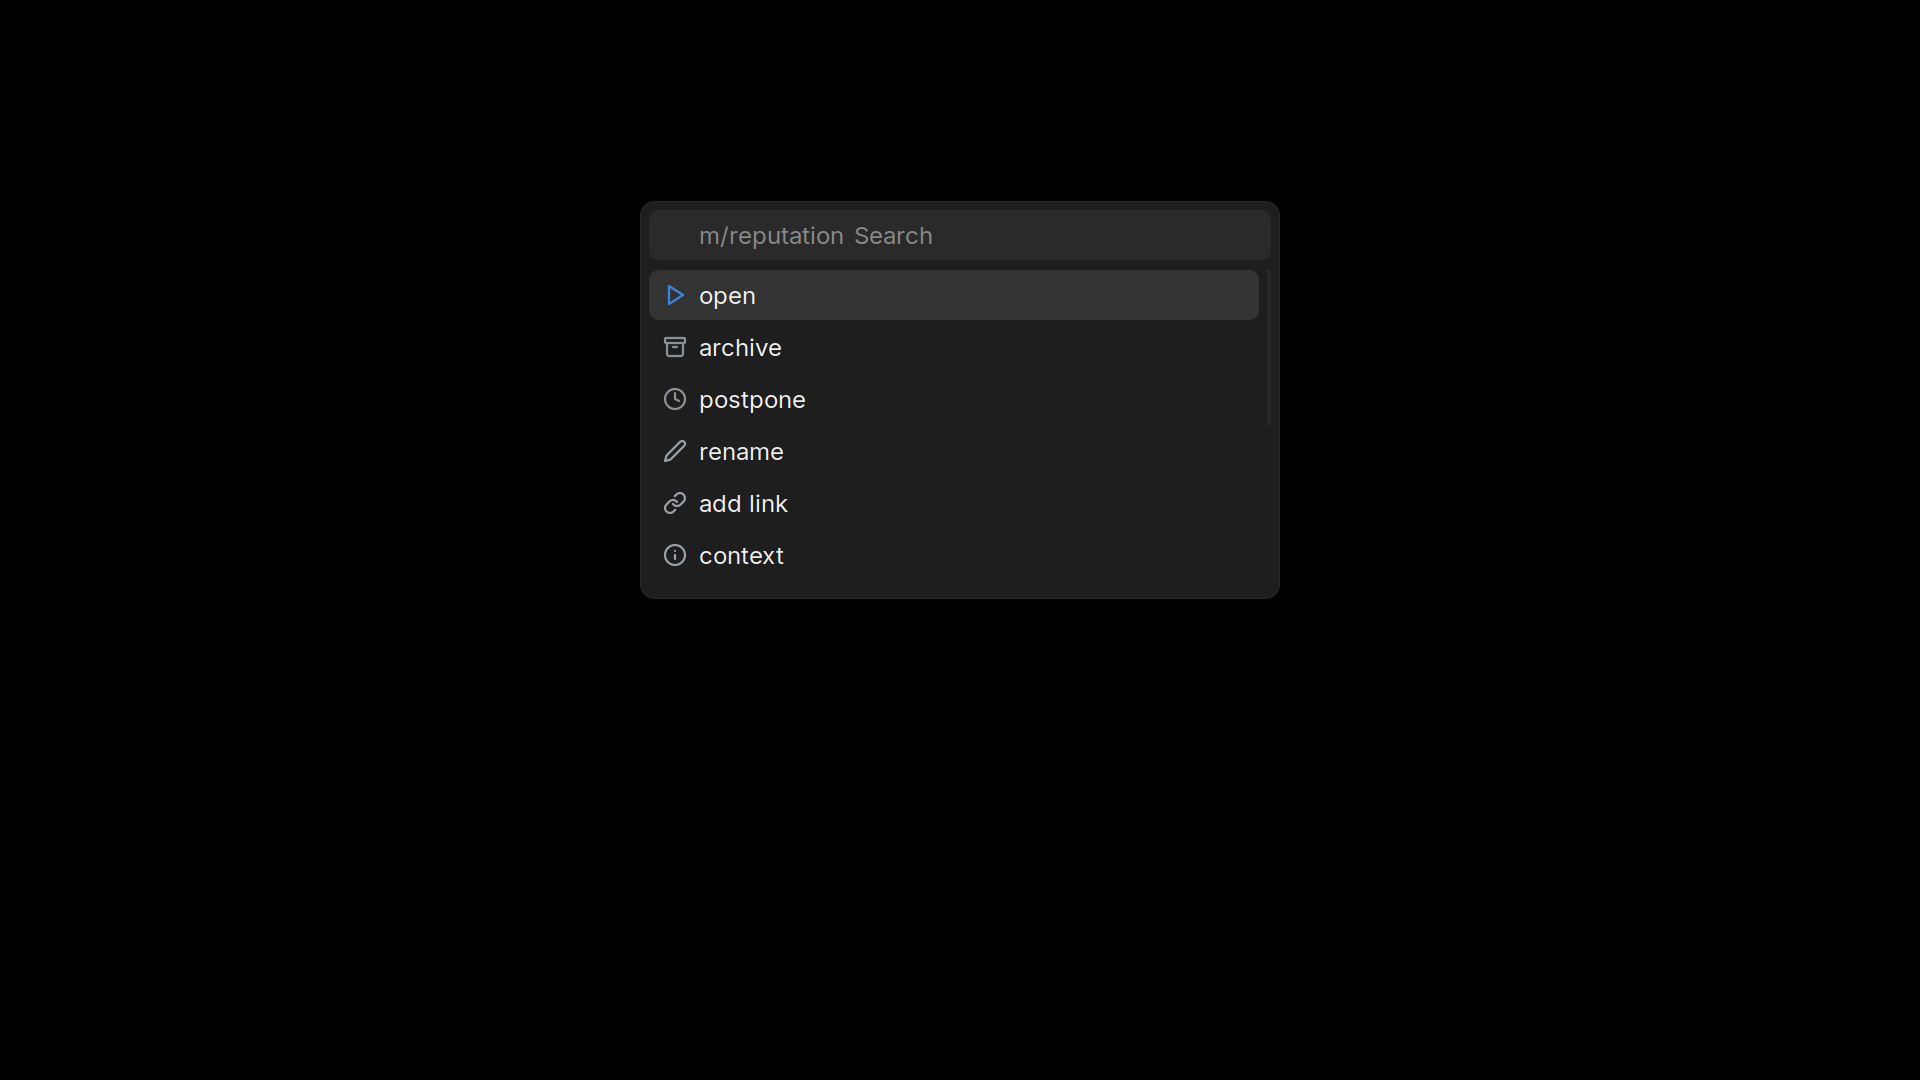
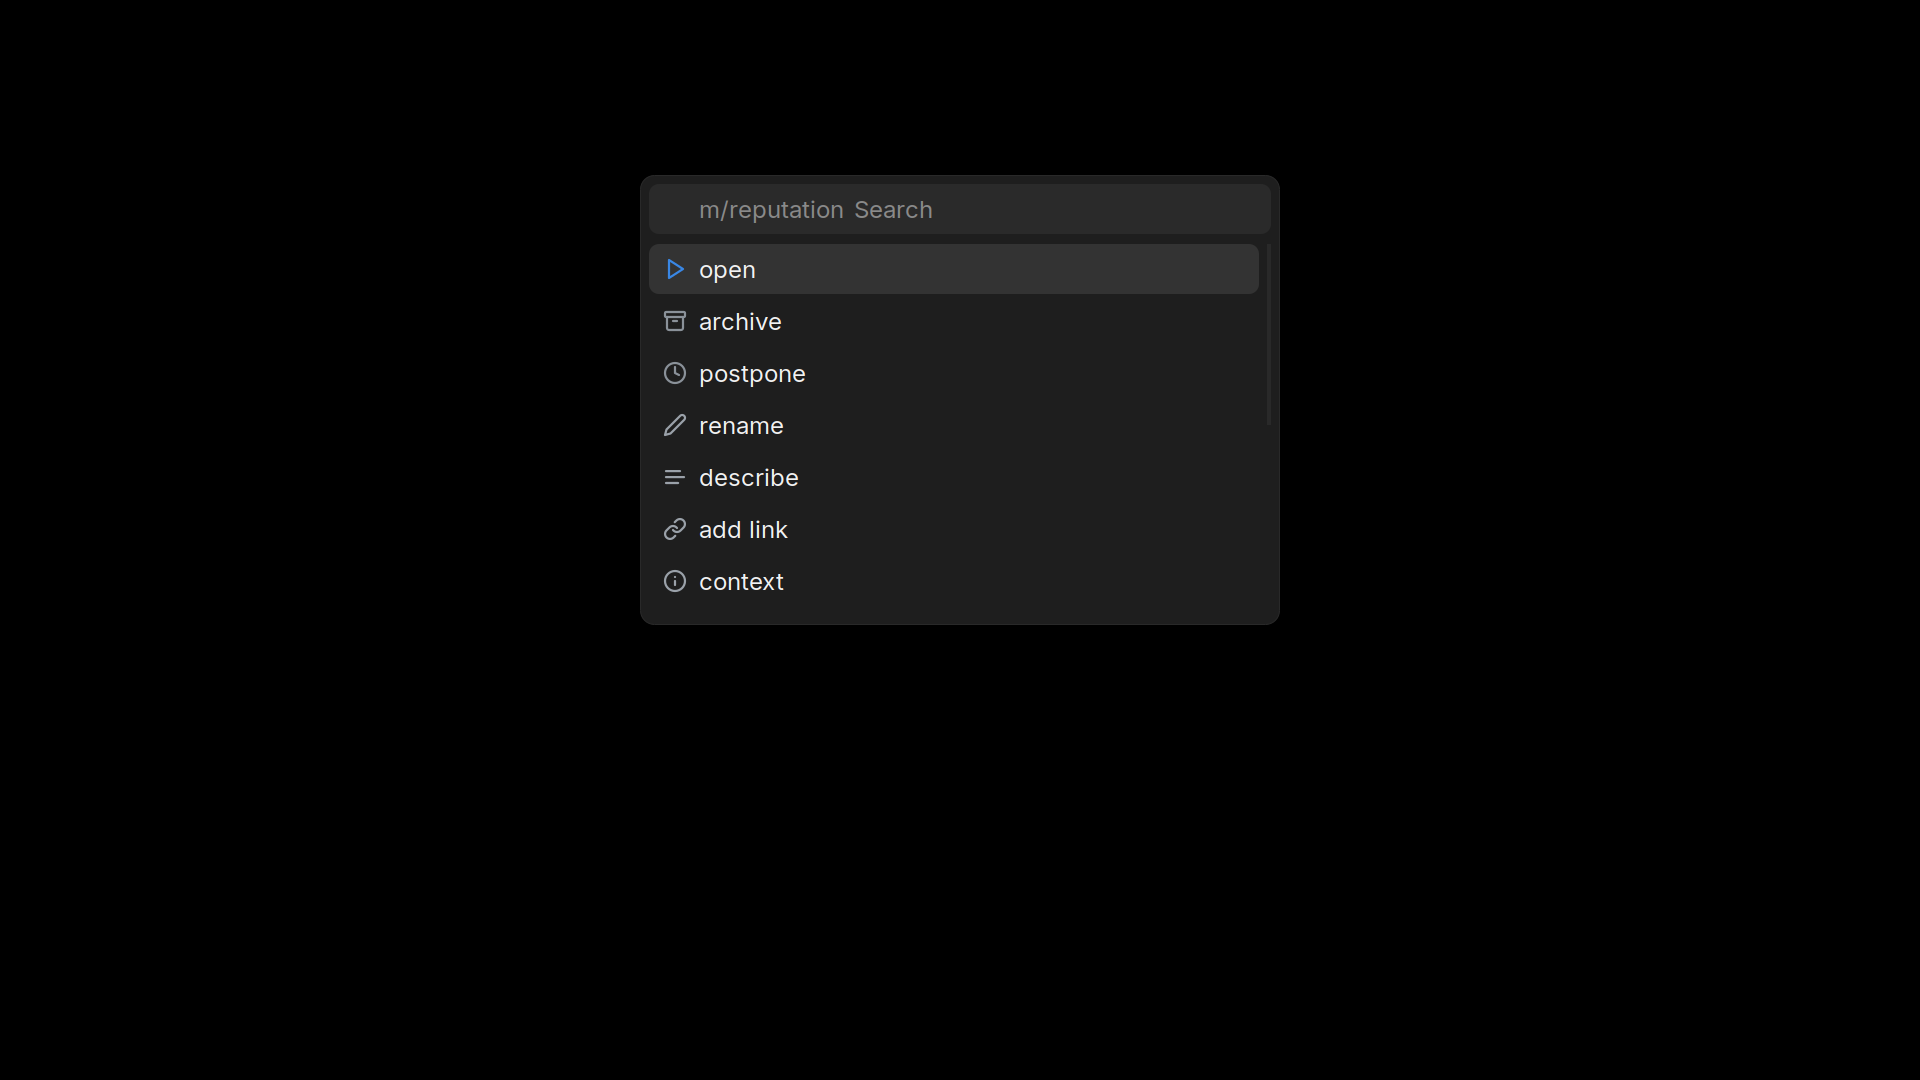
p-launcher: project description as a decorative subtitle, describe verb

Changed region(s): [[0.3125, 0.1528, 0.6875, 0.5806]]

diff --git a/p-launcher/menu.go b/p-launcher/menu.go
@@ -40,7 +40,7 @@ func load(s *Store, root string, all bool) ([]Project, map[string]bool, error) {
 
 // list prints TSV rows for other front ends: path, name, label, open,
 // last_active, ball ("you", "claude" or empty), archived (0/1), review (0/1:
-// a fresh verdict says a linked PR waits on the user).
+// a fresh verdict says a linked PR waits on the user), description.
 func list(s *Store, root string, w io.Writer, all bool) error {
 	ps, open, err := load(s, root, all)
 	if err != nil {
@@ -61,7 +61,7 @@ func writeList(w io.Writer, ps []Project, open map[string]bool) error {
 		if p.Review {
 			r = "1"
 		}
-		if _, err := fmt.Fprintf(w, "%s\t%s\t%s\t%s\t%s\t%s\t%s\t%s\n", p.Path, p.Name, p.Label, o, p.LastActive, p.Ball, a, r); err != nil {
+		if _, err := fmt.Fprintf(w, "%s\t%s\t%s\t%s\t%s\t%s\t%s\t%s\t%s\n", p.Path, p.Name, p.Label, o, p.LastActive, p.Ball, a, r, p.Description); err != nil {
 			return err
 		}
 	}
@@ -76,7 +76,9 @@ func writeList(w io.Writer, ps []Project, open map[string]bool) error {
 func rofiArgs(prompt, toggleKey string) []string {
 	// -sync: read all rows before painting, so the window never shows a frame
 	// without rows while the pipe drains (it did, intermittently).
-	args := []string{"-dmenu", "-sync", "-i", "-p", prompt, "-format", "i|f", "-matching", "fuzzy", "-markup-rows", "-show-icons"}
+	// -sep \x1e: rows are separated by the record separator so a row may
+	// contain a newline (the description subtitle).
+	args := []string{"-dmenu", "-sync", "-i", "-p", prompt, "-format", "i|f", "-matching", "fuzzy", "-markup-rows", "-show-icons", "-sep", rowSep}
 	if toggleKey != "" {
 		args = append(args, "-kb-cancel", "Escape,Control+g,Control+bracketleft,"+toggleKey)
 	}
@@ -86,6 +88,8 @@ func rofiArgs(prompt, toggleKey string) []string {
 // rofiInput renders rows for rofi: the text, then the dmenu row option
 // "\0icon\x1f<path>" so every row has an icon cell (a transparent blank for
 // closed projects keeps the column uniform). With no icon files, plain rows.
+const rowSep = "\x1e"
+
 func rofiInput(rows []Row, icons map[string]string) []byte {
 	var b bytes.Buffer
 	for _, r := range rows {
@@ -98,7 +102,7 @@ func rofiInput(rows []Row, icons map[string]string) []byte {
 			b.WriteString("\x00icon\x1f")
 			b.WriteString(p)
 		}
-		b.WriteByte('\n')
+		b.WriteString(rowSep)
 	}
 	return b.Bytes()
 }
@@ -288,6 +292,7 @@ const (
 	verbArchive
 	verbPostpone
 	verbRename
+	verbDescribe
 	verbAddLink
 	verbContext
 	verbCreate
@@ -304,7 +309,7 @@ func verbRows(p Project) []verbRow {
 	if p.Archived {
 		return []verbRow{{"open (reopen)", verbOpen, "", "reopened"}, {"context", verbContext, "", "context"}}
 	}
-	return []verbRow{{"open", verbOpen, "", "open"}, {"archive", verbArchive, "", "archived"}, {"postpone", verbPostpone, "", "snoozed"}, {"rename", verbRename, "", "rename"}, {"add link", verbAddLink, "", "link"}, {"context", verbContext, "", "context"}}
+	return []verbRow{{"open", verbOpen, "", "open"}, {"archive", verbArchive, "", "archived"}, {"postpone", verbPostpone, "", "snoozed"}, {"rename", verbRename, "", "rename"}, {"describe", verbDescribe, "", "describe"}, {"add link", verbAddLink, "", "link"}, {"context", verbContext, "", "context"}}
 }
 
 // postponeRows are the snooze lengths; arg is the number of days.
@@ -380,6 +385,25 @@ func verbMenu(s *Store, root, toggleKey string, p Project, vs []verbRow, icons m
 			return err
 		}
 		notifyInfo("postponed " + p.Path + " until " + until.Format("Mon Jan 02"))
+		return nil
+	case verbDescribe:
+		// the current sentence is pre-filled so it can be edited, not retyped
+		out, _, cancelled, err := runRofi("describe "+p.Name, toggleKey, nil, "-filter", p.Description)
+		if err != nil || cancelled {
+			return err
+		}
+		_, typed, ok := parseRofiOut(out)
+		if !ok {
+			return nil
+		}
+		if err := s.SetDescription(p.Path, typed); err != nil {
+			return err
+		}
+		if typed == "" {
+			notifyInfo("cleared the description of " + p.Path)
+		} else {
+			notifyInfo(p.Path + ": " + typed)
+		}
 		return nil
 	case verbRename:
 		out, _, cancelled, err := runRofi("rename "+p.Name+" to", toggleKey, nil)

diff --git a/p-launcher/store.go b/p-launcher/store.go
@@ -5,6 +5,7 @@ import (
 	"fmt"
 	"os"
 	"path/filepath"
+	"strings"
 	"time"
 
 	_ "modernc.org/sqlite"
@@ -14,14 +15,30 @@ type Store struct{ db *sql.DB }
 
 // Project is one row of the launcher list, already sorted for display.
 type Project struct {
-	Path       string // "m/dependabot"
-	Name       string // "dependabot"
-	Label      string // namespace label, "matchi"
-	LastActive string // RFC3339 UTC or "" when never selected
-	Ball       string // "you" (a Claude session waits on the user), "claude" (working), or ""
-	Archived   bool   // latest project_event is "archived"
-	Snoozed    bool   // latest project_event is "snoozed" with a wake time still ahead
-	Review     bool   // a fresh elly verdict says a linked PR waits on the user
+	Path        string // "m/dependabot"
+	Name        string // "dependabot"
+	Label       string // namespace label, "matchi"
+	LastActive  string // RFC3339 UTC or "" when never selected
+	Ball        string // "you" (a Claude session waits on the user), "claude" (working), or ""
+	Archived    bool   // latest project_event is "archived"
+	Snoozed     bool   // latest project_event is "snoozed" with a wake time still ahead
+	Review      bool   // a fresh elly verdict says a linked PR waits on the user
+	Description string // one sentence of intent, "" when unset
+}
+
+// SetDescription stores the project's one-sentence intent ("" clears it).
+func (s *Store) SetDescription(path, text string) error {
+	res, err := s.db.Exec(`update project set description = ? where path = ?`, strings.TrimSpace(text), path)
+	if err != nil {
+		return fmt.Errorf("describe %s: %w", path, err)
+	}
+	if n, err := res.RowsAffected(); err != nil || n == 0 {
+		if err != nil {
+			return err
+		}
+		return fmt.Errorf("describe: unknown project %q", path)
+	}
+	return nil
 }
 
 var errNoRows = sql.ErrNoRows
@@ -107,7 +124,7 @@ func (s *Store) listProjectsAt(all bool, at time.Time) ([]Project, error) {
 		fresh = true
 	}
 	rows, err := s.db.Query(`
-		select p.path, p.name, n.label,
+		select p.path, p.name, n.label, p.description,
 		       coalesce((select max(occurred_at) from activity a where a.project_id = p.id), '') as last_active,
 		       coalesce((select max(state) from session_state ss where ss.project_id = p.id and ss.since > ?), '') as ball,
 		       `+latestKindExpr+` as kind, `+latestDetailExpr+` as detail,
@@ -122,7 +139,7 @@ func (s *Store) listProjectsAt(all bool, at time.Time) ([]Project, error) {
 	for rows.Next() {
 		var p Project
 		var kind, detail string
-		if err := rows.Scan(&p.Path, &p.Name, &p.Label, &p.LastActive, &p.Ball, &kind, &detail, &p.Review); err != nil {
+		if err := rows.Scan(&p.Path, &p.Name, &p.Label, &p.Description, &p.LastActive, &p.Ball, &kind, &detail, &p.Review); err != nil {
 			return nil, err
 		}
 		p.Archived = kind == "archived"

diff --git a/p-launcher/menu_test.go b/p-launcher/menu_test.go
@@ -12,10 +12,11 @@ func TestWriteList(t *testing.T) {
 		{Path: "personal/health", Name: "health", Label: "personal"},
 	}
 	ps[1].Review = true
+	ps[1].Description = "track sleep and running"
 	var buf bytes.Buffer
 	writeList(&buf, ps, map[string]bool{"p:m/dependabot": true})
-	want := "m/dependabot\tdependabot\tmatchi\t1\t2026-09-01T10:00:00Z\tyou\t0\t0\n" +
-		"personal/health\thealth\tpersonal\t0\t\t\t0\t1\n"
+	want := "m/dependabot\tdependabot\tmatchi\t1\t2026-09-01T10:00:00Z\tyou\t0\t0\t\n" +
+		"personal/health\thealth\tpersonal\t0\t\t\t0\t1\ttrack sleep and running\n"
 	if buf.String() != want {
 		t.Fatalf("got %q", buf.String())
 	}
@@ -61,12 +62,15 @@ func TestRofiInput(t *testing.T) {
 	rows := []Row{{Text: "a", Path: "m/a", Icon: "you"}, {Text: "b", Path: "m/b"}}
 	icons := map[string]string{"you": "/x/you.svg", "blank": "/x/blank.svg"}
 	got := string(rofiInput(rows, icons))
-	want := "a\x00icon\x1f/x/you.svg\nb\x00icon\x1f/x/blank.svg\n"
+	want := "a\x00icon\x1f/x/you.svg\x1eb\x00icon\x1f/x/blank.svg\x1e"
 	if got != want {
 		t.Fatalf("got %q want %q", got, want)
 	}
 	// no icon files: plain rows, rofi ignores a missing option
-	if got := string(rofiInput(rows, nil)); got != "a\nb\n" {
+	if got := string(rofiInput(rows, nil)); got != "a\x1eb\x1e" {
 		t.Fatalf("got %q", got)
+	}
+	if !strings.Contains(strings.Join(rofiArgs("p", ""), " "), "-sep \x1e") {
+		t.Fatal("rows must be separated by the record separator")
 	}
 }

diff --git a/p-launcher/icons.go b/p-launcher/icons.go
@@ -20,6 +20,7 @@ var iconPaths = map[string]string{
 	"reopened": `<path d="M21 12a9 9 0 1 1-2.64-6.36"></path><path d="M21 3v6h-6"></path>`,
 	"report":   `<line x1="12" x2="12" y1="20" y2="10"></line><line x1="18" x2="18" y1="20" y2="4"></line><line x1="6" x2="6" y1="20" y2="16"></line>`,
 	"snoozed":  `<circle cx="12" cy="12" r="10"></circle><polyline points="12 6 12 12 16 14"></polyline>`,
+	"describe": `<path d="M17 6.1H3"></path><path d="M21 12.1H3"></path><path d="M15.1 18H3"></path>`,
 	// verb submenu
 	"open":          `<polygon points="6 3 20 12 6 21 6 3"></polygon>`,
 	"rename":        `<path d="M17 3a2.85 2.83 0 1 1 4 4L7.5 20.5 2 22l1.5-5.5Z"></path>`,
@@ -46,7 +47,7 @@ func iconSVG(name, color string, size int) template.HTML {
 var rofiIconColors = map[string]string{
 	"you": "#d95926", "claude": "#3987e5", "idle": "#8a9199", "review": "#d95926", "archived": "#8a9199", "report": "#8a9199", "snoozed": "#8a9199",
 	// verbs: neutral, except the default action and the "done" reason
-	"open": "#3987e5", "reopened": "#3987e5", "rename": "#9aa1a9", "link": "#9aa1a9", "context": "#9aa1a9", "create": "#199e70",
+	"open": "#3987e5", "reopened": "#3987e5", "rename": "#9aa1a9", "describe": "#9aa1a9", "link": "#9aa1a9", "context": "#9aa1a9", "create": "#199e70",
 	"done": "#199e70", "scrapped": "#d95926", "deprioritized": "#9aa1a9", "elsewhere": "#9aa1a9",
 }
 

diff --git a/p-launcher/verbs_test.go b/p-launcher/verbs_test.go
@@ -62,7 +62,7 @@ func TestVerbRows(t *testing.T) {
 	if got := verbTexts(postponeRows()); !reflect.DeepEqual(got, []string{"1 day", "3 days", "10 days"}) || postponeRows()[2].arg != "10" {
 		t.Fatalf("%v", got)
 	}
-	if got := verbTexts(ongoing); !reflect.DeepEqual(got, []string{"open", "archive", "postpone", "rename", "add link", "context"}) {
+	if got := verbTexts(ongoing); !reflect.DeepEqual(got, []string{"open", "archive", "postpone", "rename", "describe", "add link", "context"}) {
 		t.Fatalf("%v", got)
 	}
 	archived := verbRows(Project{Path: "m/a", Name: "a", Archived: true})
@@ -93,7 +93,7 @@ func TestVerbRows(t *testing.T) {
 		}
 	}
 	in := string(verbInput(ongoing, map[string]string{"open": "/i/open.svg", "blank": "/i/blank.svg"}))
-	if !strings.HasPrefix(in, "open\x00icon\x1f/i/open.svg\n") || !strings.Contains(in, "archive\x00icon\x1f/i/blank.svg\n") {
+	if !strings.HasPrefix(in, "open\x00icon\x1f/i/open.svg\x1e") || !strings.Contains(in, "archive\x00icon\x1f/i/blank.svg\x1e") {
 		t.Fatalf("%q", in)
 	}
 }

diff --git a/p-launcher/store_test.go b/p-launcher/store_test.go
@@ -216,6 +216,29 @@ func TestRecordSessionEvent(t *testing.T) {
 	}
 }
 
+func TestSetDescription(t *testing.T) {
+	s := openTestStore(t)
+	if err := s.UpsertProjects(found("m/a")); err != nil {
+		t.Fatal(err)
+	}
+	if err := s.SetDescription("m/nope", "x"); err == nil {
+		t.Fatal("unknown project accepted")
+	}
+	if err := s.SetDescription("m/a", "  one sentence  "); err != nil {
+		t.Fatal(err)
+	}
+	ps, _ := s.ListProjects()
+	if ps[0].Description != "one sentence" {
+		t.Fatalf("%q", ps[0].Description)
+	}
+	if err := s.SetDescription("m/a", ""); err != nil {
+		t.Fatal(err)
+	}
+	if ps, _ = s.ListProjects(); ps[0].Description != "" {
+		t.Fatalf("not cleared: %q", ps[0].Description)
+	}
+}
+
 func TestSessionBallReason(t *testing.T) {
 	s := openTestStore(t)
 	if err := s.UpsertProjects(found("m/a")); err != nil {

diff --git a/p-launcher/golden_test.go b/p-launcher/golden_test.go
@@ -151,7 +151,7 @@ func TestGoldenRofiMenu(t *testing.T) {
 	}
 	ps := []Project{
 		{Path: "m/reputation", Name: "reputation", Label: "matchi", Ball: "you"},
-		{Path: "m/dependabot", Name: "dependabot", Label: "matchi", Ball: "claude"},
+		{Path: "m/dependabot", Name: "dependabot", Label: "matchi", Ball: "claude", Description: "keep every service's dependencies current without breaking deploys"},
 		{Path: "m/nginx-ingress", Name: "nginx-ingress", Label: "matchi"},
 		{Path: "personal/p-launcher", Name: "p-launcher", Label: "personal"},
 		{Path: "personal/health", Name: "health", Label: "personal"},

diff --git a/p-launcher/rows.go b/p-launcher/rows.go
@@ -25,6 +25,11 @@ func Rows(ps []Project, open map[string]bool, withTail bool) []Row {
 	for _, p := range ps {
 		text := html.EscapeString(p.Name) + "\t" +
 			`<span alpha="45%">` + html.EscapeString(p.Label) + `</span>`
+		if p.Description != "" {
+			// second line of the same row (rows are separated by \x1e, not
+			// \n), so the cursor never lands on it: decoration only
+			text += "\n" + `<span size="small" alpha="60%">` + html.EscapeString(p.Description) + `</span>`
+		}
 		icon := stateIcon(p, open[tagFor(p.Path)])
 		if p.Archived {
 			icon = "archived"

diff --git a/p-launcher/rows_test.go b/p-launcher/rows_test.go
@@ -43,6 +43,14 @@ func TestRows(t *testing.T) {
 	}
 }
 
+func TestRowsDescriptionSubtitle(t *testing.T) {
+	rows := Rows([]Project{{Path: "m/a", Name: "a", Label: "matchi", Description: "keep <deps> fresh"}}, nil, false)
+	want := "a\t" + `<span alpha="45%">matchi</span>` + "\n" + `<span size="small" alpha="60%">keep &lt;deps&gt; fresh</span>`
+	if rows[0].Text != want {
+		t.Fatalf("got %q", rows[0].Text)
+	}
+}
+
 func TestRowsEmpty(t *testing.T) {
 	if got := Rows(nil, nil, false); len(got) != 0 {
 		t.Fatalf("got %+v", got)

diff --git a/p-launcher/main.go b/p-launcher/main.go
@@ -1,3 +1,10 @@
+// p-launcher: one hotkey opens any ~/p project in a Claude Code terminal,
+// shows whose turn it is per project (you, Claude, a reviewer), and reports
+// weekly on how many things to run at once.
+//
+// Subcommands are porcelain (menu, open, create, archive, report) and
+// plumbing (list, hook, links refresh, tend, desktop). State lives in one
+// SQLite file under XDG data; nothing is stored under ~/p.
 package main
 
 import (

diff --git a/p-launcher/migrations.go b/p-launcher/migrations.go
@@ -17,6 +17,14 @@ var migrations = []func(*sql.Tx) error{
 	migrate006,
 	migrate007,
 	migrate008,
+	migrate009,
+}
+
+// migrate009 adds the one-sentence project description shown as a subtitle
+// in the menu and in the report.
+func migrate009(tx *sql.Tx) error {
+	_, err := tx.Exec(`alter table project add column description text not null default ''`)
+	return err
 }
 
 // migrate008 stores elly's last_updated per link, so "new activity" means

diff --git a/p-launcher/lifecycle.go b/p-launcher/lifecycle.go
@@ -253,6 +253,9 @@ func contextText(s *Store, path string) (string, error) {
 		status = "archived"
 	}
 	fmt.Fprintf(&b, "%s · %s", p.Path, status)
+	if p.Description != "" {
+		fmt.Fprintf(&b, "\n%s", p.Description)
+	}
 	if p.Ball != "" {
 		fmt.Fprintf(&b, " · ball: %s", p.Ball)
 	}
